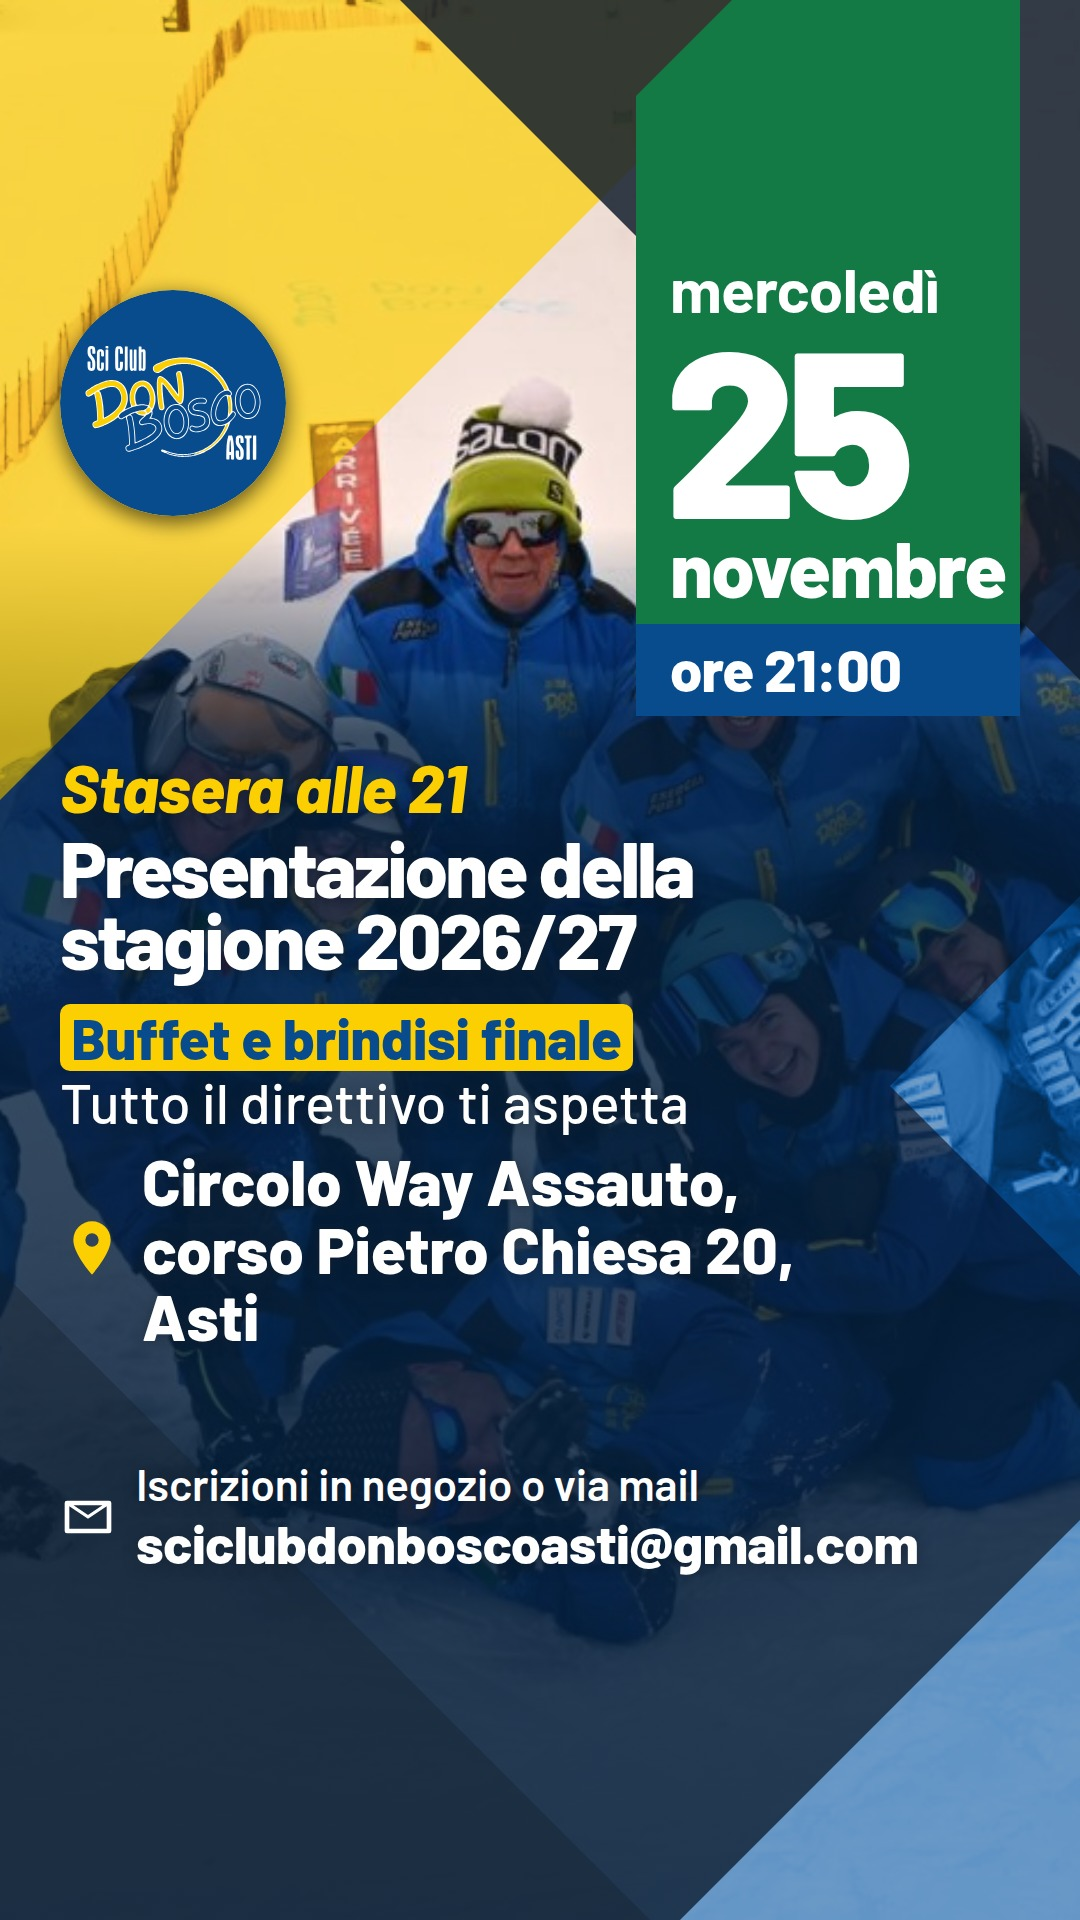
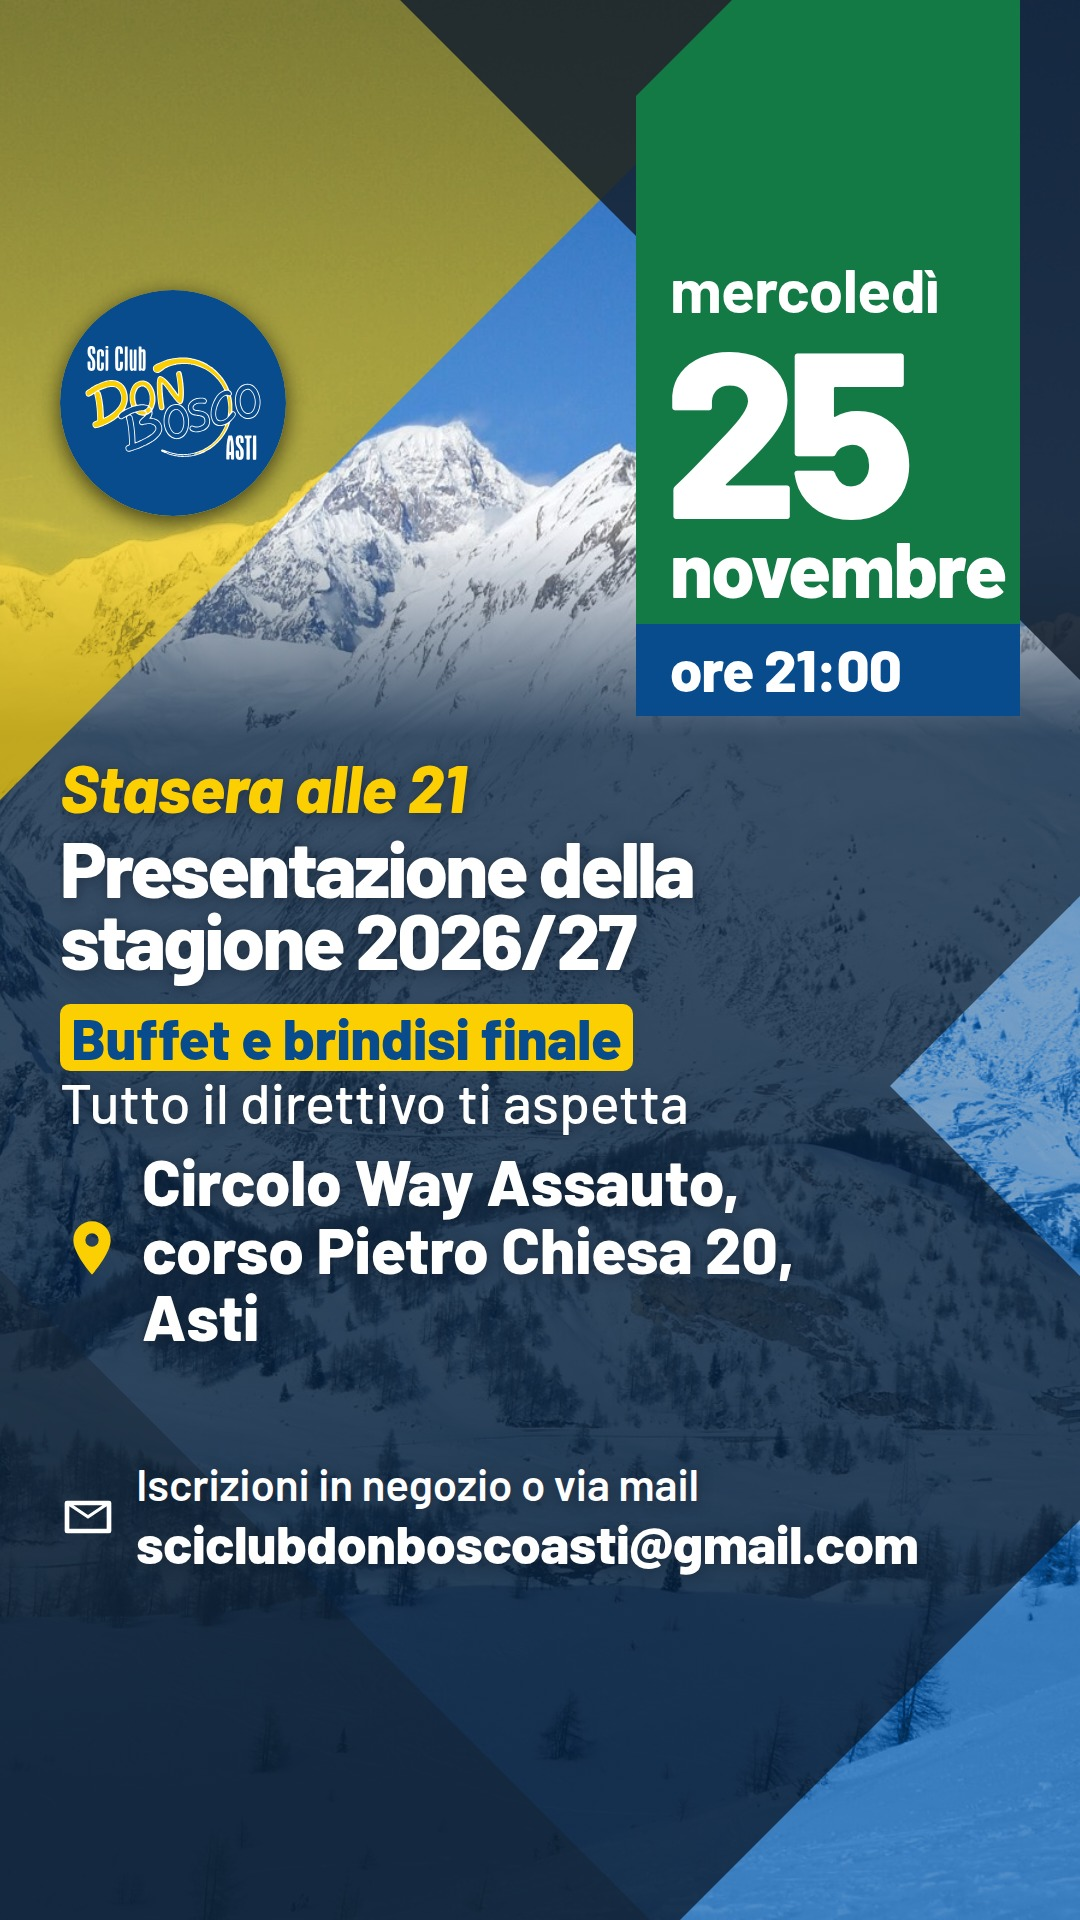
feat(grafica): storie «Domani alle 21» e «Stasera alle 21» sul Monte Bianco
La foto di gruppo (1600×835) nella storia 1080×1920 usciva sgranata. Le storie del 24 e del 25
novembre usano il Monte Bianco del volantino, con la vetta tra il logo e la data (photo_x 70). Il
post dell'invito e la storia di mercoledì, già pubblicati, restano con la foto di gruppo.
Pagine PRONTO [] e prova.js ok sulle immagini nuove (resta il NO già noto della clip non scaricata).

diff --git a/grafica/lancio-stagione/sorgenti/pagine.html b/grafica/lancio-stagione/sorgenti/pagine.html
@@ -54,6 +54,8 @@
       photo: "foto-gruppo.jpg", photo_x: 50, photo_y: 40,
     };
     const promemoria = (hook) => drawPost(postTemplate({ ...SERATA_EV, hook }, "story"));
+    // La vetta spostata a sinistra della data (photo_x 70), nello spazio libero fra il logo e la tessera verde.
+    const promemoriaMonte = (hook) => drawPost(postTemplate({ ...SERATA_EV, hook, photo: "foto-monte-bianco.jpg", photo_x: 70, photo_y: 30 }, "story"));
 
     const COPERTINA = `<div class="pagina">
       <img id="logo-grande" src="${SOCIAL.logoTondo}" alt="Sci Club Don Bosco Asti">
@@ -78,7 +80,9 @@
       "invito-post": () => drawPost(postTemplate(SERATA_EV, "post")),
       "invito-story": () => drawPost(postTemplate(SERATA_EV, "story")),
       "promemoria-mercoledi": () => promemoria("Mercoledì ci vediamo"),
-      "promemoria-stasera": () => promemoria("Stasera alle 21"),
+      // Dal 24/11 le storie della serata hanno il Monte Bianco: la foto di gruppo (1600×835) nella storia usciva sgranata.
+      "promemoria-domani": () => promemoriaMonte("Domani alle 21"),
+      "promemoria-stasera": () => promemoriaMonte("Stasera alle 21"),
       "si-parte-1": () => COPERTINA,
       "si-parte-2": () => drawCalendar("Le gite di dicembre", righe, "2026-12"),
       "si-parte-3": () => drawPost(postTemplate(NOVITA_EV, "post")),

diff --git a/grafica/lancio-stagione/sorgenti/prova.js b/grafica/lancio-stagione/sorgenti/prova.js
@@ -83,7 +83,7 @@ prova("scheda della serata", () => {
 prova("immagini dei due post e delle storie", () => {
   const attese = [
     ["invito-post.jpg", 1080, 1350], ["invito-story.jpg", 1080, 1920],
-    ["promemoria-mercoledi.jpg", 1080, 1920], ["promemoria-stasera.jpg", 1080, 1920],
+    ["promemoria-mercoledi.jpg", 1080, 1920], ["promemoria-domani.jpg", 1080, 1920], ["promemoria-stasera.jpg", 1080, 1920],
     ["si-parte-1.jpg", 1080, 1350], ["si-parte-2.jpg", 1080, 1350], ["si-parte-3.jpg", 1080, 1350],
   ];
   for (const [nome, w, h] of attese) {

diff --git a/grafica/lancio-stagione/README.md b/grafica/lancio-stagione/README.md
@@ -6,7 +6,8 @@ Due post e i Reel per far conoscere la stagione e il suo inizio (piano del 12/11
 |---|---|---|
 | 13 novembre | Post 1, invito alla serata di presentazione: post su Facebook, Reel su Instagram, storia su entrambi | `invito-post.jpg`, `invito-story.jpg` e il Reel `../video-serata-post/renders/invito-serata-post-16s.mp4` |
 | 22 novembre | Storia «Mercoledì ci vediamo», con il conto alla rovescia | `promemoria-mercoledi.jpg` |
-| 25 novembre | Storia «Stasera alle 21», poi le storie dalla serata | `promemoria-stasera.jpg` |
+| 24 novembre | Storia «Domani alle 21», sul Monte Bianco | `promemoria-domani.jpg` |
+| 25 novembre | Storia «Stasera alle 21», sul Monte Bianco, poi le storie dalla serata | `promemoria-stasera.jpg` |
 | 26 novembre | Post 2, carosello «Si parte!» e Reel della stagione | `si-parte-1.jpg`, `si-parte-2.jpg`, `si-parte-3.jpg`, `../video-stagione/renders/story-stagione-16s.mp4` |
 
 La serata: **mercoledì 25 novembre 2026 alle 21:00**, al Circolo Way Assauto, corso Pietro Chiesa 20,
@@ -25,6 +26,10 @@ il post si può riscaricare da lì.
 - **Post 2**: la copertina con il logo e la prima gita del 1° dicembre, il calendario di dicembre del
   generatore (le 6 gite salvate) e «Da non perdere» (prova gratuita del 13 dicembre, Dream Weekend
   dall'11 al 13 dicembre, corsi dal 9 gennaio).
+
+Le storie del 24 e del 25 novembre hanno come sfondo il Monte Bianco del volantino (`sorgenti/foto-monte-bianco.jpg`),
+con la vetta tra il logo e la data: la foto di gruppo, piccola (1600×835), nella storia usciva sgranata. Il post e
+le storie già pubblicati restano con la foto di gruppo.
 
 Le didascalie sono in `didascalie.md`.
 
